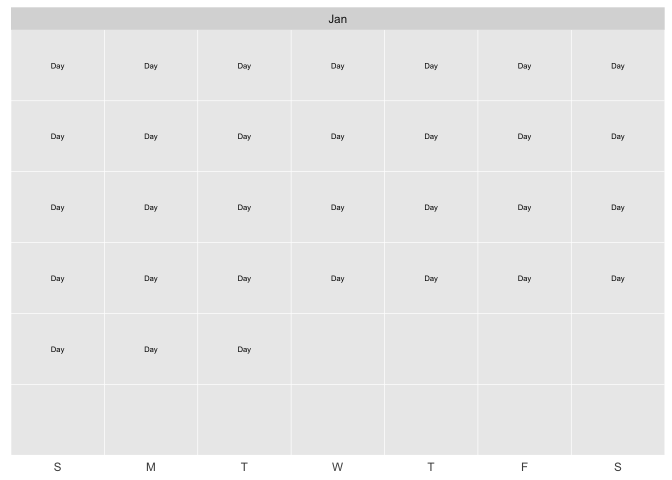
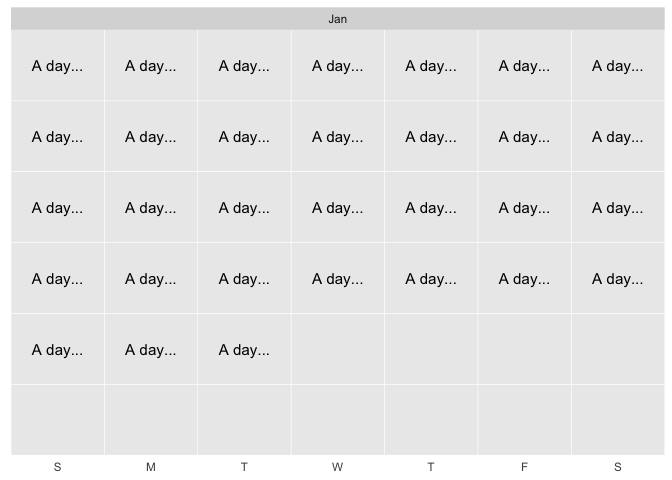
readme

diff --git a/README.md b/README.md
@@ -9,13 +9,20 @@
 experimental](https://img.shields.io/badge/lifecycle-experimental-orange.svg)](https://lifecycle.r-lib.org/articles/stages.html#experimental)
 <!-- badges: end -->
 
-Create grammar-of-graphics calendars.
+Create grammar-of-graphics calendars. Let’s *put* things on the
+calendar\!
 
-ggcalendar introduces a new positional aesthetic: ‘date’. Specify the
-position of your geom using date, and let ggcalendar() and the
-geom\_\*\_calendar() functions place your geom. Under the hood, the
-compute\_group functions finds the x and y position for the calendar
-date and panels are created based on the month.
+For calendars, ‘when?’ and ‘where?’ are the same question\! So
+ggcalendar introduces a new positional aesthetic: ‘date’.
+
+Specify the position of your calendar geom using a dates: `aes(date =
+my_vector_of_dates)`\! Then use ggcalendar() and the
+geom\_\*\_calendar() functions place your geom in the plot space.
+
+Under the hood, the compute\_group functions finds the x and y position
+for the calendar date; panels/facets are created based on the month.
+This computation is assisted with date parsing - lubridate functions
+have been especially helpful\!
 
 ``` r
 library(ggcalendar)
@@ -32,7 +39,7 @@ devtools::install_github("EvaMaeRey/ggcalendar")
 ## Example
 
 ``` r
-return_dates_month("2023-01") %>% 
+return_dates_month("2023-02") %>% 
   ggcalendar() + 
   aes(date = date) + 
   geom_point_calendar()
@@ -55,8 +62,9 @@ ggcalendar() +
 return_dates_month("2023-01") %>% 
 ggcalendar() + 
   aes(date = date) + 
-  geom_text_calendar(label = "Day", # override default
-                     size = 2)
+  
+  geom_text_calendar(label = "A day...", # override default
+                     size = 4)
 ```
 
 <img src="man/figures/README-unnamed-chunk-3-3.png" width="100%" />
